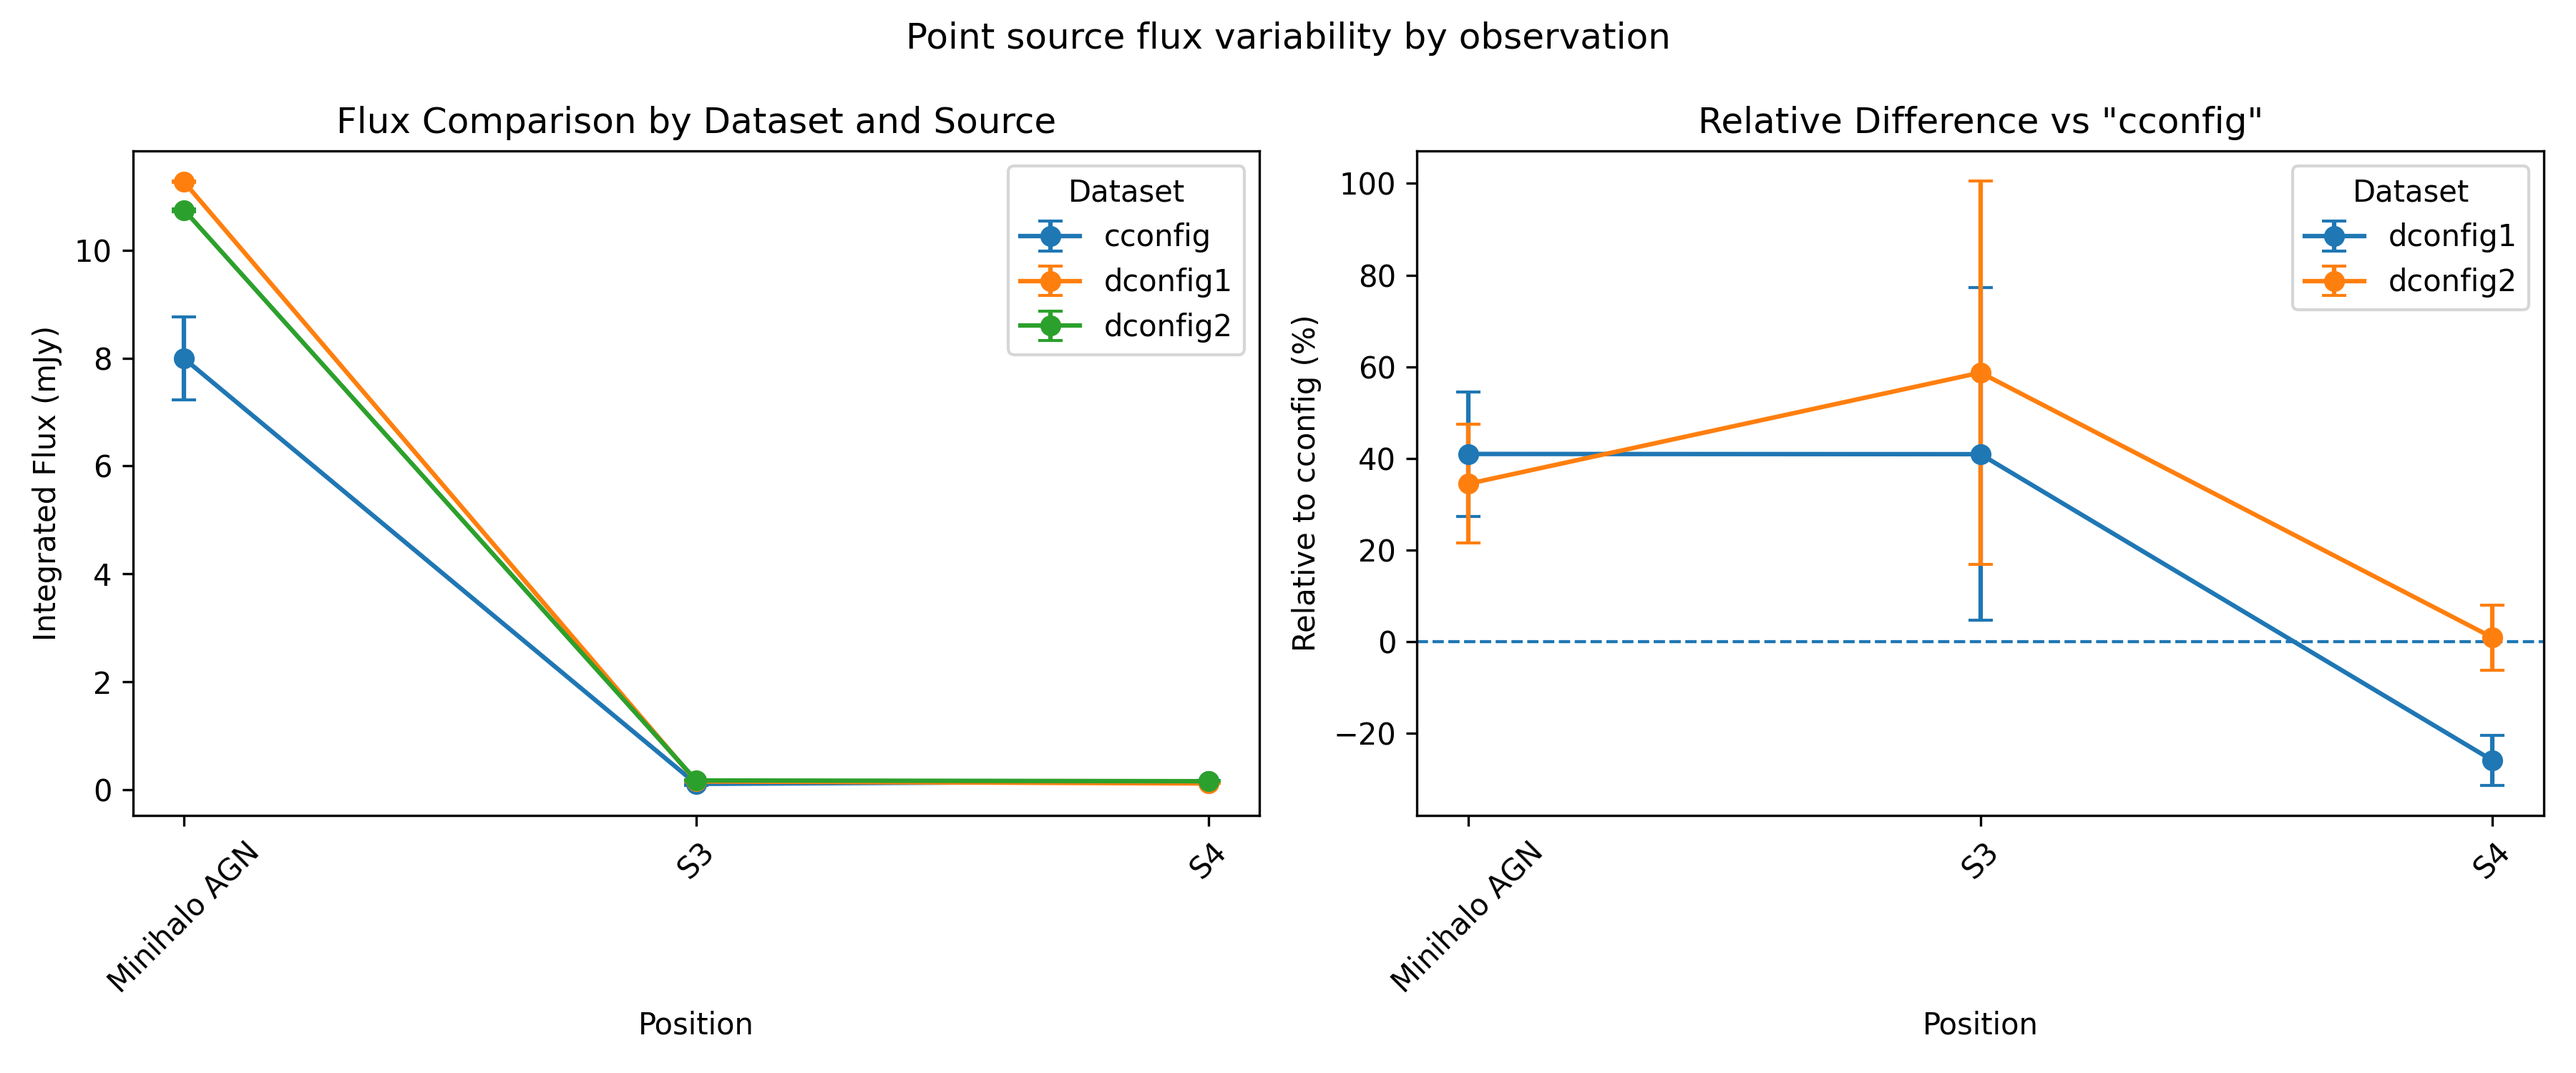
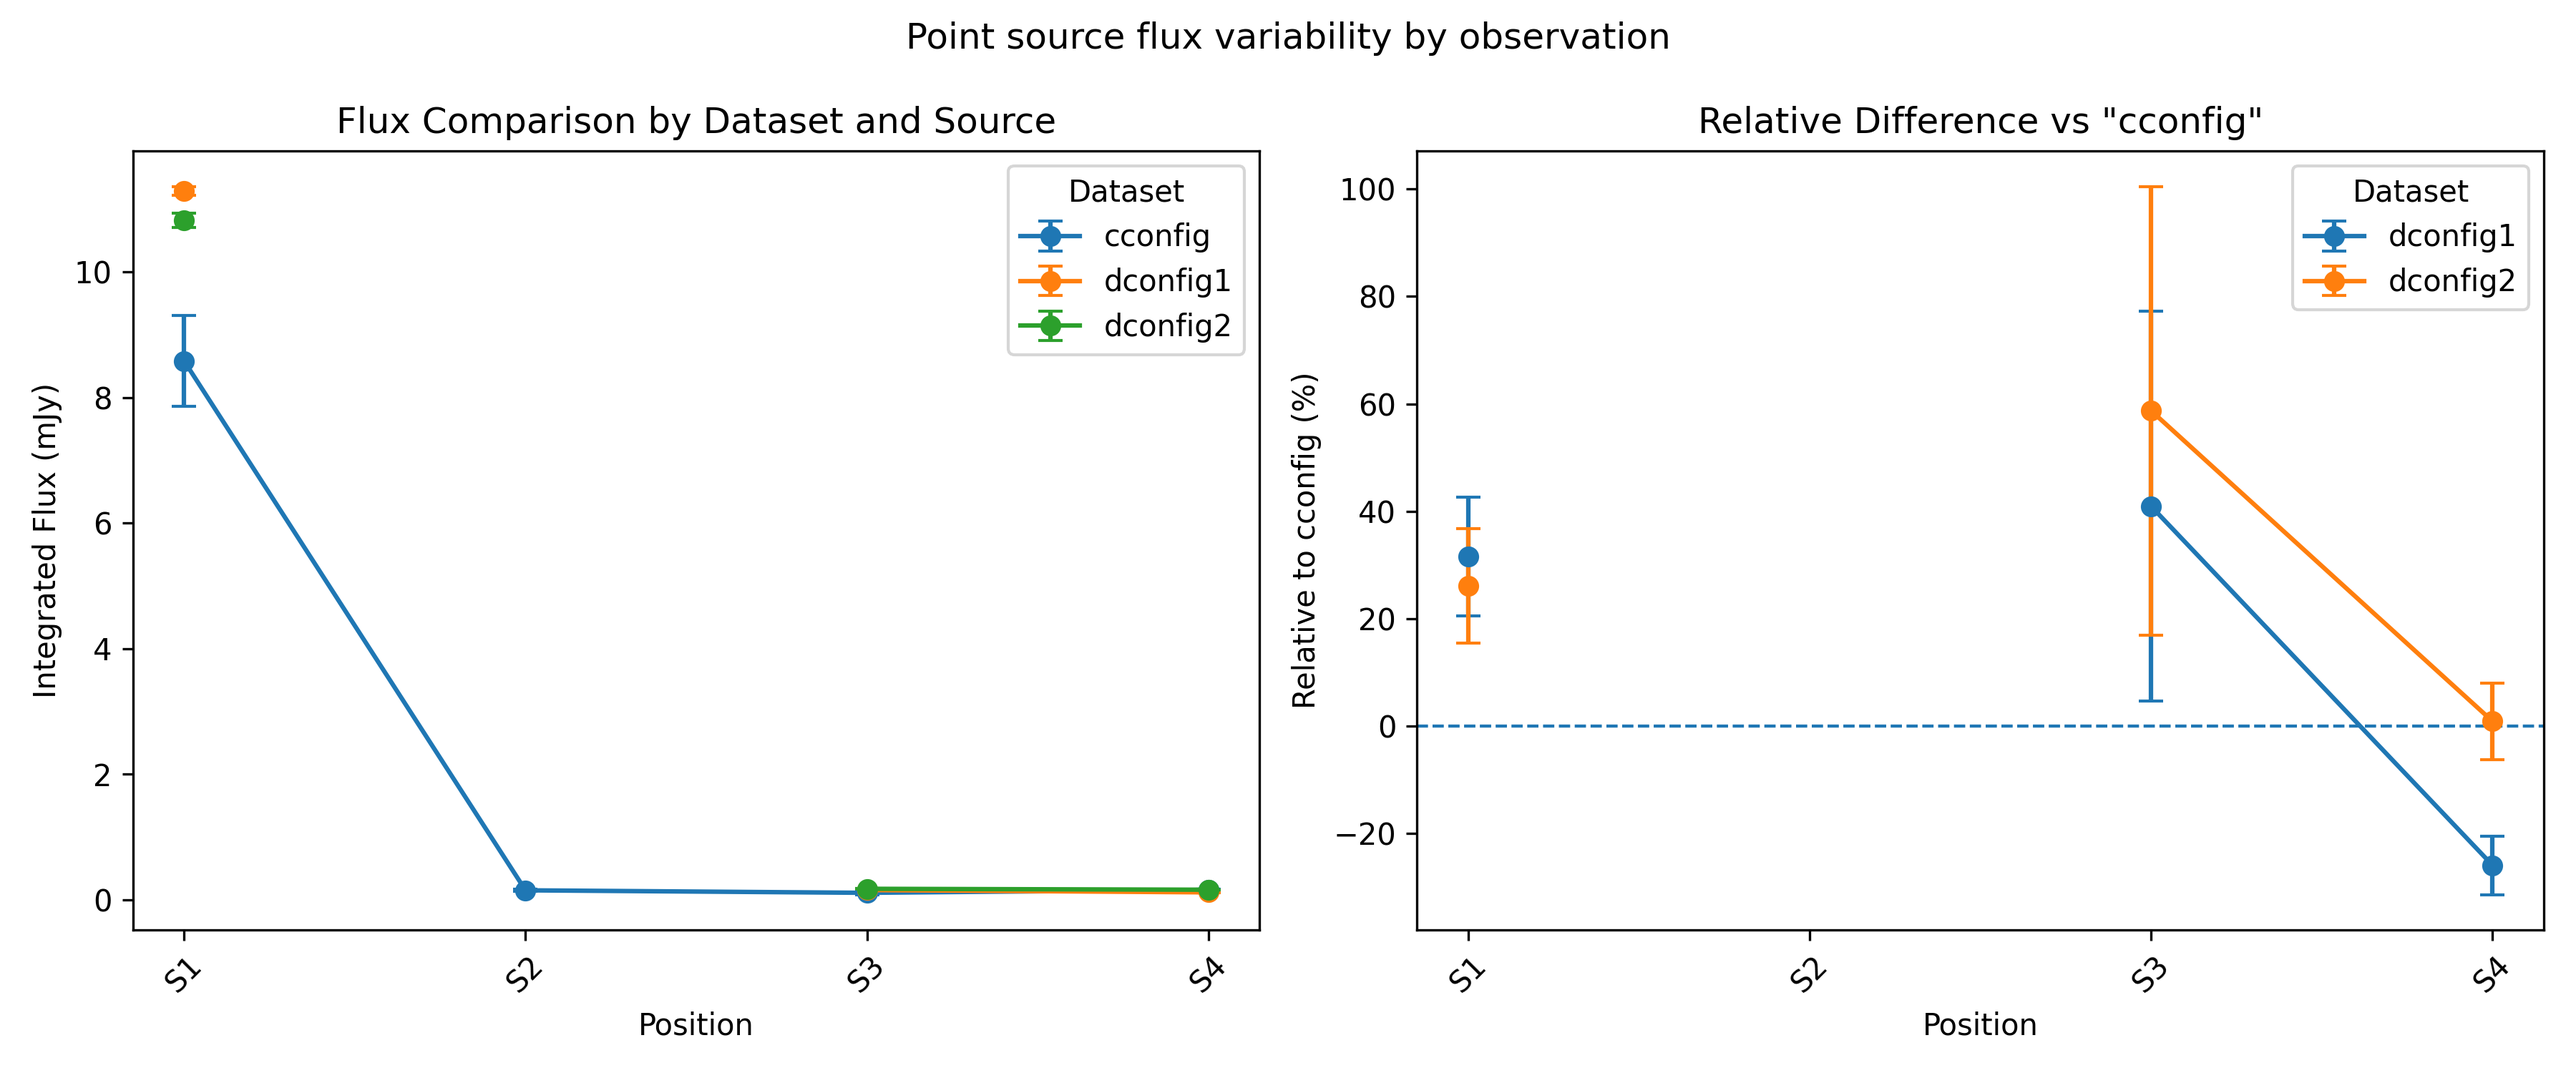
fix: various analyses

diff --git a/Image-Processing/A2204/minihalo/minihalo_flux.py b/Image-Processing/A2204/minihalo/minihalo_flux.py
@@ -19,7 +19,7 @@ def plot_seds(
 ):
     fig, axA = plt.subplots(1, 1, figsize=fig_size)
 
-    # ---------- Panel (a): minihalo + BCG ----------
+    # ---------- Panel (a): minihalo + BCG + power-laws ----------
     f_mh, s_mh, e_mh = minihalo
     f_bcg, s_bcg, e_bcg = bcg
 
@@ -28,26 +28,26 @@ def plot_seds(
 
     _scatter_with_errors(axA, f_mh, s_mh, e_mh, facecolor="k", edgecolor="k")
     _scatter_with_errors(axA, f_bcg, s_bcg, e_bcg, facecolor="w", edgecolor="k")
-
+    
     # Fit lines (dashed) spanning the panel’s frequency range
     fmin_a = 0.025  # in GHz
     fmax_a = 30
     _fit_with_band(axA, fit_mh, fmin_a, fmax_a)
     _fit_with_band(axA, fit_bcg, fmin_a, fmax_a, ls="-", lw=1.0)
-
+    
     axA.set_xscale("log")
     axA.set_yscale("log")
     axA.set_xlabel("Frequency (GHz)")
     axA.set_ylabel("Flux (mJy)")
     axA.set_title("Total flux of minihalo and BCG")
-    axA.set_xlim(0.01, 100)
-    axA.set_ylim(0.3, 5000)
+    axA.set_xlim(0.1, 20)
+    axA.set_ylim(0.1, 1000)
     axA.text(0.55, 0.70, "minihalo", transform=axA.transAxes)
     axA.text(0.53, 0.64, _alpha_text(fit_mh.alpha, fit_mh.sigma_alpha), transform=axA.transAxes)
     axA.text(0.18, 0.18, "BCG", transform=axA.transAxes)
     axA.text(0.18, 0.12, _alpha_text(fit_bcg.alpha, fit_bcg.sigma_alpha), transform=axA.transAxes)
-
-    # Cosmetics to echo the paper’s feel
+    
+    # Cosmetics
     axA.minorticks_on()
     axA.grid(False)
     fig.tight_layout(w_pad=1.5)
@@ -58,53 +58,28 @@ def plot_seds(
 
 
 # --- Data ---
-mh_freq = np.array([1.40, 10])
-mh_flux = np.array([16.6, 1.38])
-mh_err  = np.array([3, 0.019])
+mh_freq = np.array([1.4, 10])
+mh_flux = np.array([21, 0.360])
+mh_err  = np.array([1.6, 0.7, 0.2, 0.2, 0.1])
 
-bcg_freq = np.array([1.4, 4.9, 10])
-bcg_flux = np.array([31, 9.6, 11.1])
-bcg_err  = np.array([1.6, 0.5, 1.29])
+bcg_freq = np.array([1.4, 10])
+bcg_flux = np.array([58.9, 11.1])
+bcg_err  = np.array([2.9, 1.0])
 
-# --- Recreate G14 plot with our points ---
-plot_seds(
-    minihalo=(mh_freq, mh_flux, mh_err),
-    bcg=(bcg_freq, bcg_flux, bcg_err),
-    savepath="A2204_seds.png",
-)
+s2_freq = np.array([1.4, 10])
+s2_flux = np.array([1.6, 0.15])
+s2_err  = np.array([0.1, 0.02])
 
+# --- Plot SED ---
+# plot_seds(
+#     minihalo=(mh_freq, mh_flux, mh_err),
+#     bcg=(bcg_freq, bcg_flux, bcg_err),
+#     savepath="rxj2129_seds.png",
+# )
 
-# --- Total minihalo only ---
-fit = fit_powerlaw(mh_freq, mh_flux, mh_err)
+# Fit BCG and S2
+fit_bcg = fit_powerlaw(bcg_freq, bcg_flux, bcg_err)
+fit_s2 = fit_powerlaw(s2_freq, s2_flux, s2_err)
 
-# Prepare a plotting band (extend a touch below min for nicer look)
-nu_min = 10 ** (np.log10(mh_freq.min()) - 0.1)
-nu_max = 12.0
-nu_grid, S_fit, S_lower, S_upper = prepare_plot_band(fit, nu_min, nu_max, n_points=400)
-
-# Example single-point comparison @ 10 GHz
-nu_meas = mh_freq[-1]
-S_meas = mh_flux[-1]
-sigma_meas = mh_err[-1]
-S_pred, sigma_pred, z_fit, z_combined = point_deviation_from_fit(fit, nu_meas, S_meas, sigma_meas)
-
-# Plot
-plt.figure(figsize=(7.5, 5.5))
-plt.errorbar(mh_freq[:-1], mh_flux[:-1], yerr=mh_err[:-1], fmt='o', label="G14 + 1σ", capsize=3)
-plt.plot(nu_grid, S_fit, '-', label="Weighted fit (power law)")
-plt.fill_between(nu_grid, S_lower, S_upper, alpha=0.25, label="Fit 1σ band")
-plt.errorbar(nu_meas, S_meas, yerr=sigma_meas, fmt='*', c='r', ecolor='k', label="Us =)", capsize=3)
-plt.xscale('log')
-plt.yscale('log')
-plt.xlabel("Frequency (GHz)")
-plt.ylabel("Flux density (mJy)")
-plt.title("A478 Total Minihalo Flux\nWeighted power-law fit (G14) and 10 GHz measurement")
-plt.legend()
-plt.tight_layout()
-plt.savefig("minihalo_fit.png")
-
-# Console summary
-print(f"alpha = {fit.alpha:.3f} ± {fit.sigma_alpha:.3f}")
-print(f"S_10GHz(pred) = {S_pred:.3f} ± {sigma_pred:.3f} mJy")
-print(f"S_10GHz(meas) = {S_meas:.3f} mJy  →  Δ = {S_meas - S_pred:.4f} mJy,  z_fit = {z_fit:.2f},  z_combined = {z_combined:.2f}")
-
+print(f"AGN spectral index fit: alpha = {fit_bcg.alpha:1.2f} +/- {fit_bcg.sigma_alpha:1.2f}")
+print(f"S2 spectral index fit: alpha = {fit_s2.alpha:1.2f} +/- {fit_s2.sigma_alpha:1.2f}")

diff --git a/Image-Processing/RXJ2129+0005/minihalo/calculate_flux.py b/Image-Processing/RXJ2129+0005/minihalo/calculate_flux.py
@@ -14,8 +14,11 @@ agn_region = ["circle[[21h29m39.97s, 0d05m21.05s], 5arcsec]"]
 os.system("cp -r minihalo.mask significance.mask")
 ia.open("significance.mask")
 shape, coords = ia.shape(), ia.coordsys().torecord()
-mask_text = "ellipse[[21:29:39.9, +0.05.24.5], [13.0arcsec, 20arcsec], 0deg]"
+mask_text = "ellipse[[21h29m39.5s, +0d05m24.8s], [14.5arcsec, 29.5arcsec], 0deg]"
+s2_text = "circle[[21h29m39.1s, +0d05m9.8s], 5arcsec]"
 mask_reg = rg.fromtext(mask_text, shape=shape, csys=coords)
+excl_reg = rg.fromtext(s2_text, shape=shape, csys=coords)
+mask_reg = rg.difference(mask_reg, excl_reg)  # Remove s2 from mask
 ia.set(0.0, region=rg.complement(mask_reg))
 ia.set(1.0, region=mask_reg)
 mask = np.squeeze(np.array(ia.getchunk(), dtype=bool))

diff --git a/Image-Processing/RXJ2129+0005/minihalo/minihalo_flux.py b/Image-Processing/RXJ2129+0005/minihalo/minihalo_flux.py
@@ -59,7 +59,7 @@ def plot_seds(
 
 # --- Data ---
 mh_freq = np.array([0.235, 0.610, 1.3, 1.4, 10])
-mh_flux = np.array([21, 8, 2.5, 2.4, 0.360])
+mh_flux = np.array([21, 8, 2.5, 2.4, 0.410])
 mh_err  = np.array([1.6, 0.7, 0.2, 0.2, 0.1])
 
 bcg_freq = np.array([0.235, 0.610, 1.3, 1.4, 4.86, 8.46, 10])
